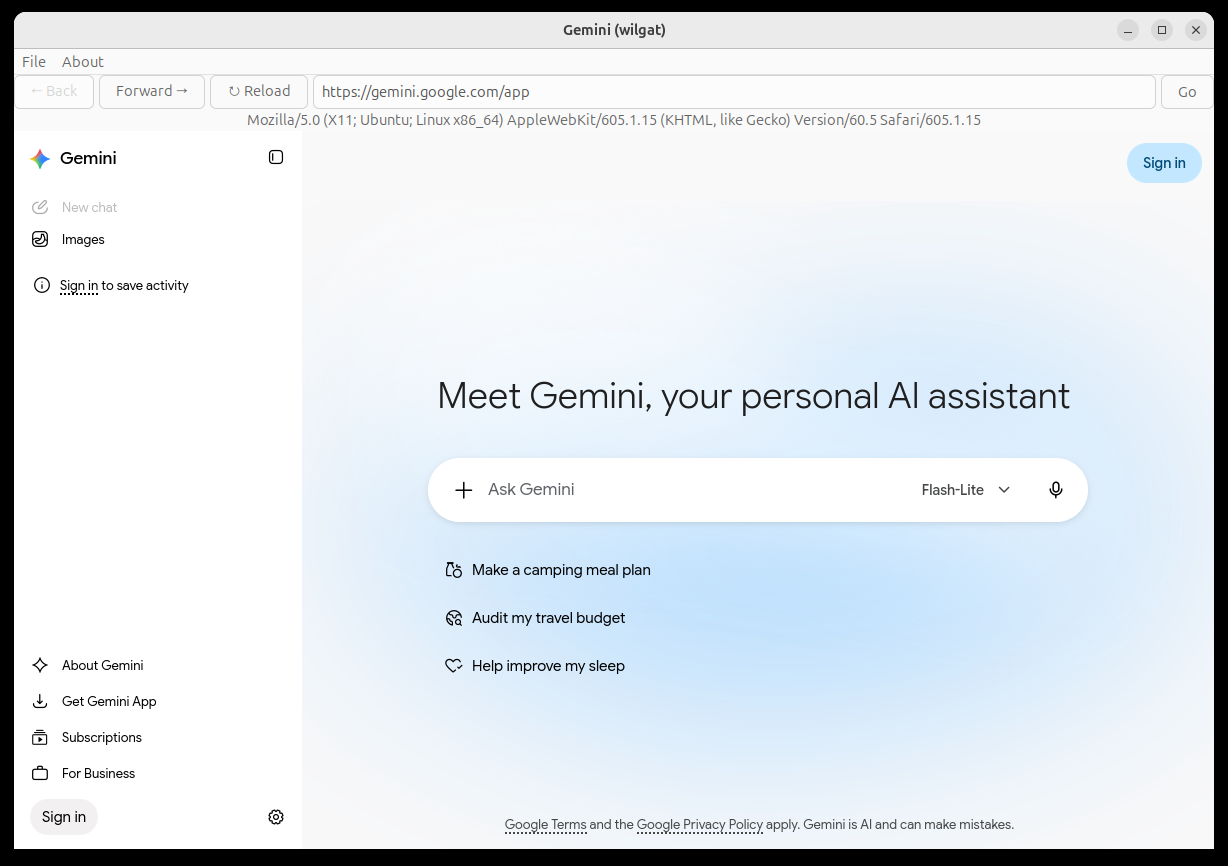
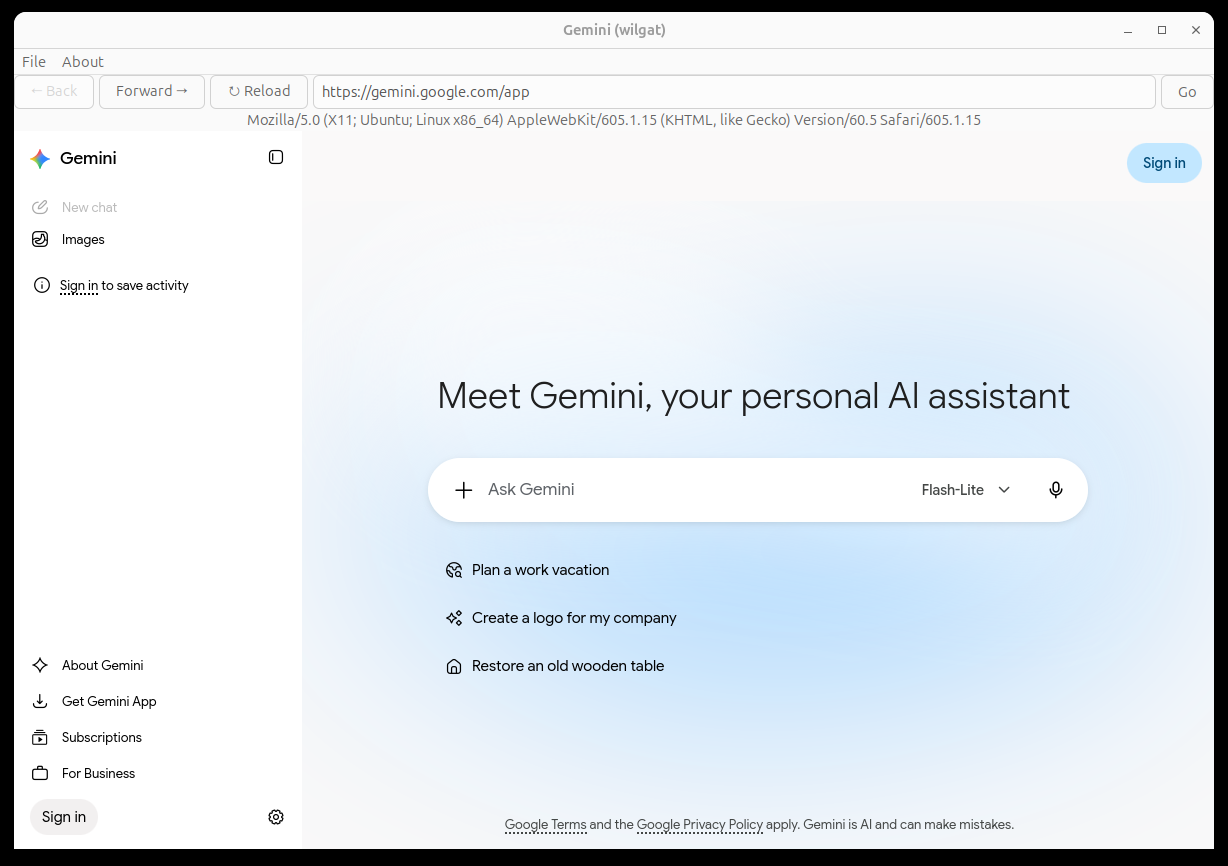
Document the Windows build and show both windows.
README now explains how to build and run gemini-player.exe, and includes a fresh Ubuntu window plus the Windows WebView2 window.

diff --git a/README.md b/README.md
@@ -77,11 +77,18 @@ meson compile -C builddir
 ./builddir/gemini-wilgat
 ```
 
+On Ubuntu, `ant build` and `gradle assemble` compile `gemini-wilgat`. `cmake -S . -B build-linux && cmake --build build-linux` also builds `gemini-wilgat`.
+
 ### Windows (Visual Studio 2022)
 
-The Windows program is `gemini-player.exe`. It is a Win32 window that hosts the WebView2 runtime. It does not compile the GTK sources. Toolchain and behavior are recorded in `docs/requirements/requirement-cpp-windows-environment.md` and `docs/requirements/requirement-cpp-windows-player.md`.
+`gemini-player.exe` is the Windows program. It compiles `src/win` into a Win32 window and opens Gemini in the WebView2 runtime. The WebView2 loader and the SQLite amalgamation are already in `third_party/`.
 
-On the machine where Visual Studio Community 2022 and the WebView2 Evergreen runtime are installed:
+Install these before the first build:
+
+- Visual Studio 2022 Community, with the **Desktop development with C++** workload. `build-win.bat` calls `C:\Program Files\Microsoft Visual Studio\2022\Community\VC\Auxiliary\Build\vcvars64.bat` and the CMake that ships in that install. CMake does not need to be on `PATH`.
+- The [WebView2 Evergreen runtime](https://developer.microsoft.com/microsoft-edge/webview2/). Current Windows installs usually already have it.
+
+From a command prompt in this repository:
 
 ```bat
 build-win.bat
@@ -89,15 +96,34 @@ build-win\Debug\gemini-player.exe --check
 build-win\Debug\gemini-player.exe
 ```
 
-`build-win.bat` uses the Visual Studio 2022 x64 developer environment and the CMake that ships with that install. The profile is `%USERPROFILE%\.app\gemini-player\`.
+`build-win.bat` configures the Visual Studio 17 2022 x64 generator and builds Debug. The result is `build-win\Debug\gemini-player.exe` next to `WebView2Loader.dll`.
 
-On Ubuntu, `ant build` and `gradle assemble` compile `gemini-wilgat`. On Windows those same commands call `build-win.bat`. `cmake -S . -B build-linux && cmake --build build-linux` also builds `gemini-wilgat`.
+`--check` creates the profile, creates the WebView2 environment, prints `check passed`, and exits. It leaves the window closed. Start `gemini-player.exe` from a signed-in Windows desktop to open the window. The address bar loads `https://gemini.google.com`.
+
+```bat
+build-win\Debug\gemini-player.exe help
+build-win\Debug\gemini-player.exe --shutdown=40
+```
+
+`help` prints the flags and exits. `--shutdown=40` closes the window after 40 seconds. A flag wins over the matching environment variable (`SHUTDOWN`, `BOOKMARK`, `QUIET`, `JSON`, `DEBUG`), and that variable wins over `config.conf`.
+
+The profile is `%USERPROFILE%\.app\gemini-player\`. The Google login stays in the `webview2` folder. The chosen user agent stays in `settings.sqlite`.
+
+On Windows, `ant build` and `gradle assemble` call `build-win.bat`. `ant run` and `gradle run` open `gemini-player.exe`. Those two tools need a JDK on `PATH`. `build-win.bat` is enough for the build. From Git Bash, MSYS, or Cygwin, `./build.sh build` calls `build-win.bat` and returns before the GTK compile.
+
+The Windows toolchain and the window behavior are recorded in `docs/requirements/requirement-cpp-windows-environment.md` and `docs/requirements/requirement-cpp-windows-player.md`.
 
 ## Ubuntu window
 
 This is `gemini-wilgat` 1.1.0 on Ubuntu after `./build.sh build`, opened with `--shutdown=40`. The address bar is `https://gemini.google.com/app`.
 
 ![gemini-wilgat on Ubuntu](images/ubuntu-gemini-wilgat.png)
+
+## Windows window
+
+This is `gemini-player.exe` 1.1.0 on Windows after `build-win.bat`. The address bar is `https://gemini.google.com/app`.
+
+![gemini-player on Windows](images/windows-gemini-player.png)
 
 ---
 

diff --git a/CHANGELOG.md b/CHANGELOG.md
@@ -9,6 +9,7 @@ and this project adheres to [Semantic Versioning](https://semver.org/spec/v2.0.0
 
 ### Added
 - One tree builds on Ubuntu and on Windows. Ubuntu still produces the WebKitGTK program `gemini-wilgat`. Windows still produces `gemini-player.exe`.
+- README shows the Ubuntu window and the Windows window, and explains how to build and run `gemini-player.exe`.
 - `ant build` and `gradle assemble` follow the host. On Windows they call `build-win.bat`.
 - `./build.sh build` on MSYS, MinGW, or Cygwin calls `build-win.bat` and returns before the GTK compile.
 - CMake on Ubuntu builds `gemini-wilgat`. CMake on Windows still builds `gemini-player.exe`.
